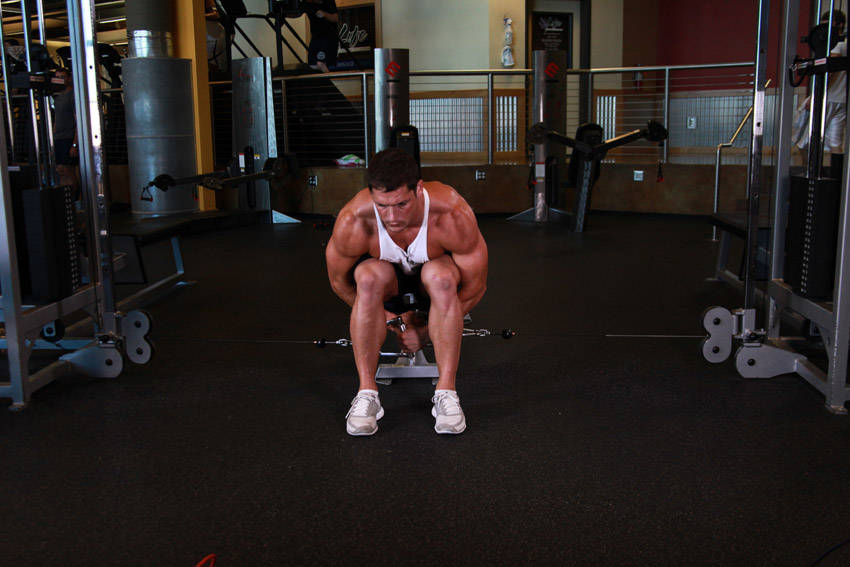
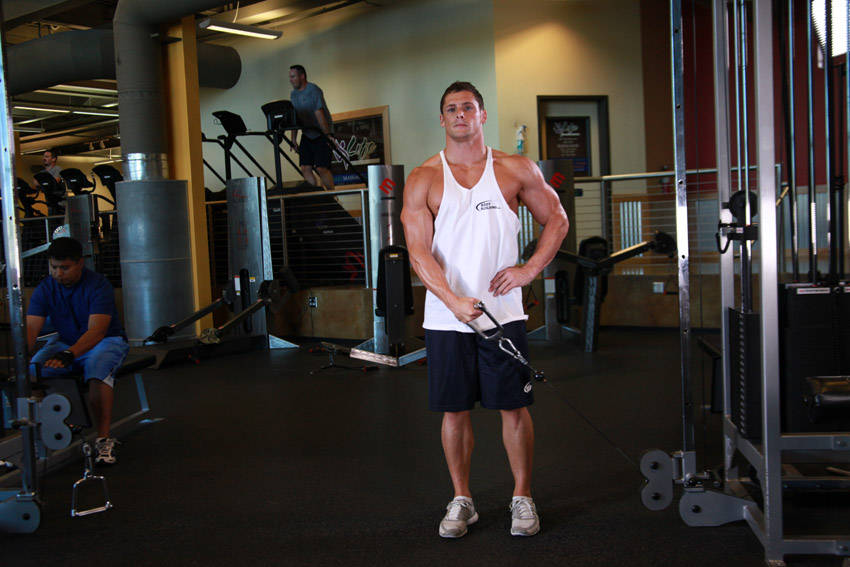
fix: replace bent-over photo with standing cable lateral raise and fix 141414810 input parsing bug

diff --git a/app.js b/app.js
@@ -899,10 +899,15 @@ function renderWorkoutTab() {
         </div>
 
         <!-- Interactive Sets Table -->
+        <div class="weight-instruction-banner">
+          <span class="weight-instruction-badge">💡 Target Load:</span>
+          <span class="weight-instruction-text">${phaseInfo.weightKg}</span>
+        </div>
+
         <div class="sets-table-wrapper">
           <div class="sets-table-header">
             <div>Set</div>
-            <div>Target / Weight</div>
+            <div>Weight (kg)</div>
             <div>Reps Done</div>
             <div>Done</div>
           </div>
@@ -912,14 +917,25 @@ function renderWorkoutTab() {
       const setKey = `${today}_${ex.id}_${s}`;
       const isCompleted = !!appState.completedSets[setKey];
       const savedData = appState.actualSetData[setKey] || {};
-      const defaultWeight = phaseInfo.weightKg.replace(/[^0-9.]/g, "") || "";
+      
+      // Clean numeric weight extraction (e.g. extracts "14" from "14 kg each hand...")
+      const cleanTargetMatch = String(phaseInfo.weightKg || "").match(/([0-9]+(?:\.[0-9]+)?)/);
+      const defaultWeight = cleanTargetMatch ? cleanTargetMatch[1] : "";
+      
+      // Auto-sanitize corrupted string concatenations (e.g. 141414810) from previous bug
+      let currentWeightVal = (savedData.weight !== undefined && savedData.weight !== null && savedData.weight !== "") 
+        ? savedData.weight 
+        : defaultWeight;
+      if (currentWeightVal && parseFloat(currentWeightVal) > 500) {
+        currentWeightVal = defaultWeight;
+      }
 
       html += `
         <div class="set-row ${isCompleted ? "done" : ""}" id="set-row-${ex.id}-${s}">
           <div class="set-index">${s + 1}</div>
           <div class="set-input-group">
-            <input type="text" class="set-input" placeholder="${phaseInfo.weightKg}" 
-              value="${savedData.weight || defaultWeight}" 
+            <input type="number" step="0.5" class="set-input" placeholder="${defaultWeight || 'kg'}" 
+              value="${currentWeightVal}" 
               oninput="handleSetDataChange('${ex.id}', ${s}, 'weight', this.value)">
             <span class="set-unit">kg</span>
           </div>

diff --git a/styles.css b/styles.css
@@ -819,9 +819,36 @@ body {
   color: #e2e8f0;
 }
 
+/* Weight Instruction Banner */
+.weight-instruction-banner {
+  background: linear-gradient(135deg, rgba(14, 165, 233, 0.12), rgba(6, 182, 212, 0.06));
+  border: 1px solid rgba(14, 165, 233, 0.28);
+  border-radius: var(--radius-sm);
+  padding: 8px 12px;
+  margin: 12px 0 8px 0;
+  display: flex;
+  align-items: flex-start;
+  gap: 8px;
+  font-size: 0.76rem;
+  line-height: 1.45;
+}
+
+.weight-instruction-badge {
+  font-weight: 800;
+  color: #38bdf8;
+  flex-shrink: 0;
+  font-size: 0.72rem;
+  text-transform: uppercase;
+}
+
+.weight-instruction-text {
+  color: #f1f5f9;
+  font-weight: 500;
+}
+
 /* Interactive Sets Table */
 .sets-table-wrapper {
-  margin-top: 14px;
+  margin-top: 10px;
 }
 
 .sets-table-header {
